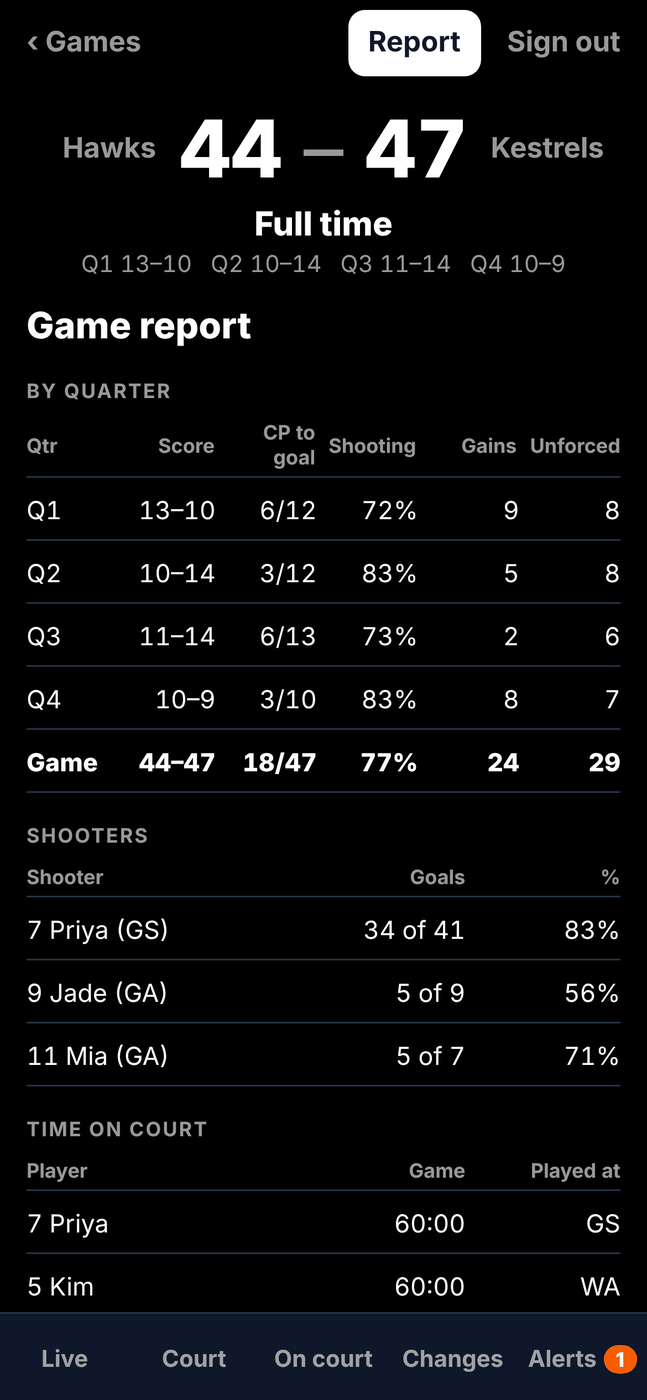
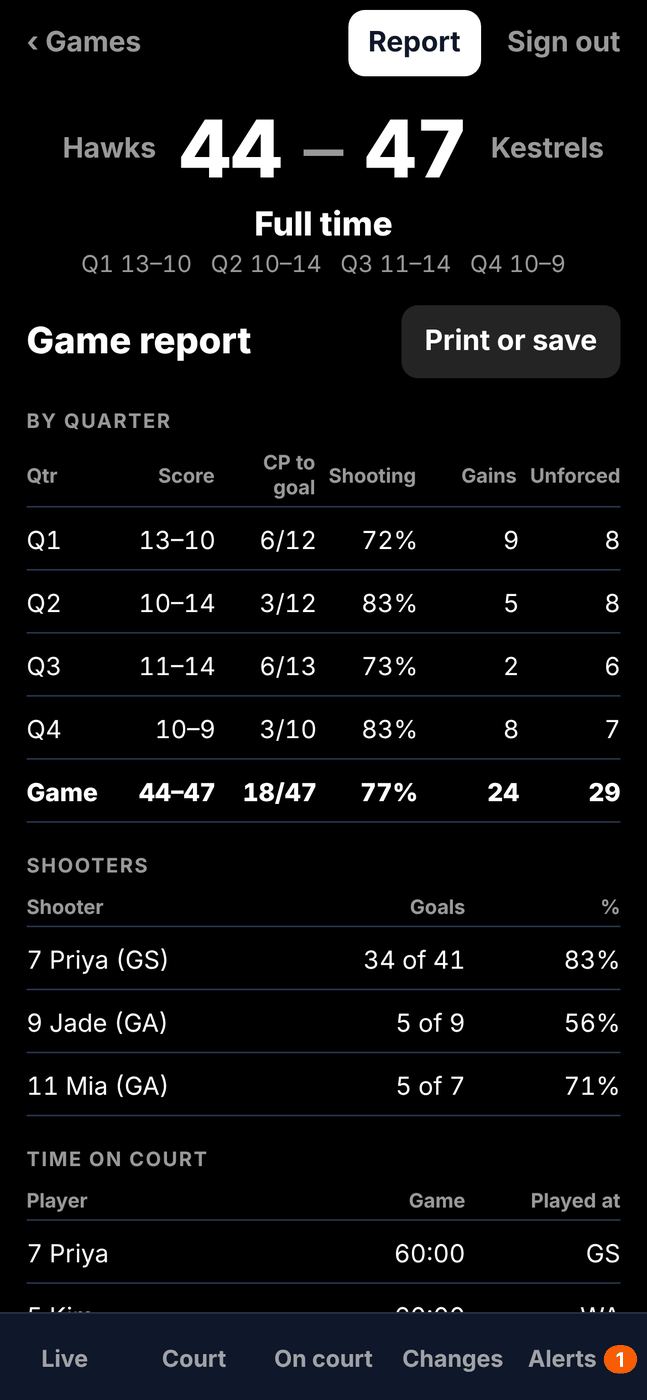
Let coaches print, save or share the Vision game report
Print or save, on the report, opens the browser's print box on a black
on white page of the same tables, where it can be saved as a PDF. In the
phone app the button is Share and sends the report as text. Every copy
says it names players and is for the coaching team only.

Claude-Session: https://claude.ai/code/session_019HSmi9DTeQewiNchkUQqo3

diff --git a/apps/vision/src/stats/reportDoc.ts b/apps/vision/src/stats/reportDoc.ts
@@ -1,0 +1,106 @@
+import type { GameReport } from './report';
+
+/*
+ * The game report as something to keep: plain text for a phone's share sheet,
+ * and a page of its own for a browser to print or save as a PDF. Both are
+ * made from the same tables the screen shows. Nothing here touches the
+ * browser or the phone, so it can be tested.
+ */
+
+export interface ReportHeading {
+  us: string;
+  them: string;
+  score: { us: number; them: number };
+  /** "Full time", "Q3" and so on. */
+  label: string;
+  /** The team the game was recorded for, when known, such as "17 & Under". */
+  teamName: string | null;
+  /** The day the game was played, already written out, such as "Sat 21 Nov 2026". */
+  date: string;
+}
+
+/** Who the report is for. It names players, so it says so on every copy. */
+export const REPORT_NOTE = 'For the coaching team. This report names players: keep it within the team and do not post it publicly.';
+
+export function reportTitle(h: ReportHeading): string {
+  return `${h.us} ${h.score.us} – ${h.score.them} ${h.them}`;
+}
+
+function subtitle(h: ReportHeading): string {
+  return [h.label, h.teamName, h.date].filter(Boolean).join(' · ');
+}
+
+/** The report as plain text, columns lined up with spaces. */
+export function reportText(h: ReportHeading, report: GameReport): string {
+  const out: string[] = [reportTitle(h), subtitle(h), ''];
+  for (const t of report.tables) {
+    out.push(t.title.toUpperCase());
+    if (t.rows.length === 0) {
+      out.push(t.empty, '');
+      continue;
+    }
+    const all = [t.head, ...t.rows];
+    const widths = t.head.map((_, i) => Math.max(...all.map((r) => (r[i] ?? '').length)));
+    for (const r of all) {
+      out.push(
+        r
+          .map((c, i) => (i === 0 ? c.padEnd(widths[i]!) : c.padStart(widths[i]!)))
+          .join('  ')
+          .trimEnd(),
+      );
+    }
+    out.push('');
+  }
+  if (report.unforcedByThird) out.push('UNFORCED TURNOVERS BY THIRD', report.unforcedByThird, '');
+  out.push(REPORT_NOTE, 'FirstPass Vision');
+  return out.join('\n');
+}
+
+/** Makes text safe to put in a page: a player's name is never read as markup. */
+export function escapeHtml(text: string): string {
+  return text.replace(/[&<>"']/g, (c) => ({ '&': '&amp;', '<': '&lt;', '>': '&gt;', '"': '&quot;', "'": '&#39;' })[c]!);
+}
+
+/** The report as a page of its own, black on white, for printing or saving as a PDF. */
+export function reportHtml(h: ReportHeading, report: GameReport): string {
+  const e = escapeHtml;
+  const tables = report.tables
+    .map((t) => {
+      if (t.rows.length === 0) return `<h2>${e(t.title)}</h2><p class="muted">${e(t.empty)}</p>`;
+      const head = t.head.map((c, i) => `<th${i ? ' class="n"' : ''}>${e(c)}</th>`).join('');
+      const rows = t.rows
+        .map((r) => `<tr${t.title === 'By quarter' && r[0] === 'Game' ? ' class="total"' : ''}>${r.map((c, i) => `<td${i ? ' class="n"' : ''}>${e(c)}</td>`).join('')}</tr>`)
+        .join('');
+      return `<h2>${e(t.title)}</h2><table><thead><tr>${head}</tr></thead><tbody>${rows}</tbody></table>`;
+    })
+    .join('');
+  const thirds = report.unforcedByThird ? `<h2>Unforced turnovers by third</h2><p>${e(report.unforcedByThird)}</p>` : '';
+  return `<!doctype html>
+<html lang="en">
+<head>
+<meta charset="utf-8">
+<meta name="viewport" content="width=device-width, initial-scale=1">
+<title>${e(reportTitle(h))}</title>
+<style>
+  @page { margin: 16mm; }
+  body { font: 11pt/1.4 -apple-system, "Segoe UI", Roboto, Helvetica, Arial, sans-serif; color: #0f172a; background: #fff; margin: 0; }
+  h1 { font-size: 20pt; margin: 0; }
+  .sub { color: #475569; margin: 2pt 0 14pt; }
+  h2 { font-size: 9pt; letter-spacing: 0.08em; text-transform: uppercase; color: #475569; margin: 16pt 0 4pt; }
+  table { width: 100%; border-collapse: collapse; page-break-inside: avoid; }
+  th, td { text-align: left; padding: 4pt 6pt 4pt 0; border-bottom: 0.5pt solid #cbd5e1; font-variant-numeric: tabular-nums; }
+  th { font-size: 9pt; color: #475569; }
+  .n { text-align: right; padding-right: 0; padding-left: 6pt; }
+  .total td { font-weight: 700; }
+  .muted { color: #475569; }
+  .note { margin-top: 18pt; font-size: 9pt; color: #475569; }
+</style>
+</head>
+<body>
+<h1>${e(reportTitle(h))}</h1>
+<p class="sub">${e(subtitle(h))}</p>
+${tables}${thirds}
+<p class="note">${e(REPORT_NOTE)}<br>FirstPass Vision</p>
+</body>
+</html>`;
+}

diff --git a/apps/vision/src/stats/__tests__/reportDoc.test.ts b/apps/vision/src/stats/__tests__/reportDoc.test.ts
@@ -1,0 +1,77 @@
+import { describe, expect, it } from 'vitest';
+import type { GameReport } from '../report';
+import { REPORT_NOTE, escapeHtml, reportHtml, reportText, reportTitle, type ReportHeading } from '../reportDoc';
+
+/*
+ * The report to keep: the text and the printable page hold what the screen's
+ * tables hold, both carry the note about naming players, and a name can never
+ * be read as markup.
+ */
+
+const heading: ReportHeading = { us: 'Hawks', them: 'Kestrels', score: { us: 44, them: 47 }, label: 'Full time', teamName: '17 & Under', date: 'Sat 21 Nov 2026' };
+const report: GameReport = {
+  tables: [
+    { title: 'By quarter', head: ['Qtr', 'Score', 'Shooting'], rows: [['Q1', '13–10', '72%'], ['Game', '44–47', '77%']], empty: 'No quarters played yet.' },
+    { title: 'Shooters', head: ['Shooter', 'Goals', '%'], rows: [['7 Priya (GS)', '34 of 41', '83%']], empty: 'No shots recorded.' },
+    { title: 'Rebounds', head: ['', 'Offensive', 'Defensive'], rows: [], empty: 'No rebounds recorded.' },
+  ],
+  unforcedByThird: 'attack 3 · centre 5',
+};
+
+describe('reportTitle', () => {
+  it('is the two teams and the score', () => {
+    expect(reportTitle(heading)).toBe('Hawks 44 – 47 Kestrels');
+  });
+});
+
+describe('reportText', () => {
+  const text = reportText(heading, report);
+
+  it('opens with the score, then the stage, team and date', () => {
+    expect(text.split('\n').slice(0, 2)).toEqual(['Hawks 44 – 47 Kestrels', 'Full time · 17 & Under · Sat 21 Nov 2026']);
+  });
+
+  it('lines the columns up', () => {
+    expect(text).toContain(['Qtr   Score  Shooting', 'Q1    13–10       72%', 'Game  44–47       77%'].join('\n'));
+  });
+
+  it('says so in words where a table is empty, and keeps the thirds line', () => {
+    expect(text).toContain('REBOUNDS\nNo rebounds recorded.');
+    expect(text).toContain('UNFORCED TURNOVERS BY THIRD\nattack 3 · centre 5');
+  });
+
+  it('carries the note about naming players', () => {
+    expect(text).toContain(REPORT_NOTE);
+  });
+
+  it('leaves out the team when it is not known', () => {
+    expect(reportText({ ...heading, teamName: null }, report).split('\n')[1]).toBe('Full time · Sat 21 Nov 2026');
+  });
+});
+
+describe('reportHtml', () => {
+  const html = reportHtml(heading, report);
+
+  it('holds every cell of every table, with the Game row marked', () => {
+    for (const t of report.tables) for (const r of t.rows) for (const c of r) expect(html).toContain(escapeHtml(c));
+    expect(html).toContain('<tr class="total"><td>Game</td>');
+    expect(html).toContain('No rebounds recorded.');
+    expect(html).toContain('attack 3 · centre 5');
+  });
+
+  it('carries the title, the team (escaped) and the note about naming players', () => {
+    expect(html).toContain('<title>Hawks 44 – 47 Kestrels</title>');
+    expect(html).toContain('17 &amp; Under');
+    expect(html).toContain(REPORT_NOTE);
+  });
+
+  it('never lets a name be read as markup, and loads nothing from anywhere', () => {
+    const nasty: GameReport = { tables: [{ title: 'Shooters', head: ['Shooter'], rows: [['<img src=x onerror=alert(1)>']], empty: '' }], unforcedByThird: '' };
+    const page = reportHtml({ ...heading, us: '<script>alert(1)</script>', them: '"Storm"' }, nasty);
+    expect(page).not.toContain('<script');
+    expect(page).not.toContain('<img');
+    expect(page).toContain('&lt;img src=x onerror=alert(1)&gt;');
+    expect(page).toContain('&quot;Storm&quot;');
+    expect(html).not.toMatch(/https?:\/\//);
+  });
+});

diff --git a/apps/vision/src/components/ReportView.tsx b/apps/vision/src/components/ReportView.tsx
@@ -1,12 +1,29 @@
 import { colors } from '@firstpass/ui';
-import { StyleSheet, Text, View } from 'react-native';
+import { Platform, StyleSheet, Text, View } from 'react-native';
+import { REPORT_NOTE } from '../stats/reportDoc';
+import { Btn } from './ui';
 import type { GameReport } from '../stats/report';
 
 /** The game report: the whole game as tables, for after the game. */
-export function ReportView({ report, fullTime }: { report: GameReport; fullTime: boolean }) {
+export function ReportView({
+  report,
+  fullTime,
+  onSave,
+  saveError,
+}: {
+  report: GameReport;
+  fullTime: boolean;
+  /** Opens the browser's print box (print, or save as a PDF) or the phone's share sheet. */
+  onSave: () => void;
+  saveError: string | null;
+}) {
   return (
     <View style={s.wrap}>
-      <Text style={s.title}>{fullTime ? 'Game report' : 'Game report so far'}</Text>
+      <View style={s.titleRow}>
+        <Text style={s.title}>{fullTime ? 'Game report' : 'Game report so far'}</Text>
+        <Btn label={Platform.OS === 'web' ? 'Print or save' : 'Share'} tone="dim" onPress={onSave} style={s.save} />
+      </View>
+      {saveError ? <Text style={s.error}>{saveError}</Text> : null}
       {report.tables.map((t) => (
         <View key={t.title} style={s.table} accessible={t.rows.length === 0} accessibilityLabel={t.rows.length === 0 ? `${t.title}: ${t.empty}` : undefined}>
           <Text style={s.heading}>{t.title}</Text>
@@ -32,6 +49,7 @@ export function ReportView({ report, fullTime }: { report: GameReport; fullTime:
         These are the figures the statistician sees in Vantage. Net Points adds up what each player did for and against the team. Time on court needs
         the lineup and substitutions to have been recorded.
       </Text>
+      <Text style={s.hint}>{REPORT_NOTE}</Text>
     </View>
   );
 }
@@ -51,7 +69,10 @@ function Row({ cells, head, strong, wide }: { cells: string[]; head?: boolean; s
 
 const s = StyleSheet.create({
   wrap: { width: '100%', maxWidth: 820, alignSelf: 'center', gap: 18 },
-  title: { color: colors.text, fontSize: 22, fontWeight: '800' },
+  titleRow: { flexDirection: 'row', alignItems: 'center', gap: 12 },
+  title: { flex: 1, color: colors.text, fontSize: 22, fontWeight: '800' },
+  save: { minHeight: 44, paddingHorizontal: 14 },
+  error: { color: colors.attention, fontSize: 15 },
   table: { gap: 2 },
   heading: { color: colors.textMuted, fontSize: 12, fontWeight: '700', letterSpacing: 1, textTransform: 'uppercase', marginBottom: 4 },
   row: { flexDirection: 'row', alignItems: 'center', gap: 8, paddingVertical: 8, borderBottomWidth: 1, borderBottomColor: colors.surfaceLine },

diff --git a/apps/vision/src/app/game.tsx b/apps/vision/src/app/game.tsx
@@ -21,6 +21,8 @@ import { verdicts } from '../stats/changes';
 import { lossesThisQuarter, matchUps, onCourt } from '../stats/markers';
 import { buildModel } from '../stats/possessions';
 import { gameReport } from '../stats/report';
+import { reportHtml, reportText, reportTitle, type ReportHeading } from '../stats/reportDoc';
+import { saveReport } from '../lib/saveReport';
 import { tiles } from '../stats/tiles';
 import { freshness, scoreSummary, type Freshness, type ScoreSummary } from '../live/summary';
 import { useLiveGame, useNow } from '../live/useLiveGame';
@@ -83,6 +85,22 @@ function SignedInGame({ id }: { id: string }) {
   const [chosenTab, setTab] = useState<Tab | null>(null);
   const tab: Tab = chosenTab ?? (game?.status === 'final' ? 'report' : 'live');
   const report = useMemo(() => (game && tab === 'report' ? gameReport(game.config, events) : null), [game, tab, events]);
+  const [saveError, setSaveError] = useState<string | null>(null);
+  const save = () => {
+    if (!game || !summary || !report) return;
+    const heading: ReportHeading = {
+      us: summary.names.us,
+      them: summary.names.them,
+      score: summary.score,
+      label: summary.label,
+      teamName: game.teamName,
+      date: new Date(game.createdAt).toLocaleDateString(undefined, { weekday: 'short', day: 'numeric', month: 'short', year: 'numeric' }),
+    };
+    setSaveError(null);
+    saveReport({ title: reportTitle(heading), text: reportText(heading, report), html: reportHtml(heading, report) }).catch((e: unknown) =>
+      setSaveError(e instanceof Error ? e.message : "Couldn't open the report to save."),
+    );
+  };
   // The break view opens by itself at each break; closing it keeps it closed for that break.
   const [closedBreak, setClosedBreak] = useState<string | null>(null);
 
@@ -138,7 +156,7 @@ function SignedInGame({ id }: { id: string }) {
         {events.length === 0 ? (
           <Text style={[ui.muted, styles.centerText]}>Waiting for the first stats from the statistician's tablet.</Text>
         ) : tab === 'report' && report ? (
-          <ReportView report={report} fullTime={summary.phase === 'full time'} />
+          <ReportView report={report} fullTime={summary.phase === 'full time'} onSave={save} saveError={saveError} />
         ) : tab === 'court' ? (
           <CourtTab model={glance.model} names={summary.names} />
         ) : tab === 'oncourt' ? (

diff --git a/apps/vision/src/lib/saveReport.ts b/apps/vision/src/lib/saveReport.ts
@@ -1,0 +1,38 @@
+import { Platform, Share } from 'react-native';
+
+/**
+ * Hands the game report to the person to keep.
+ *
+ * In a browser: the report page (black on white) goes in a frame nobody sees
+ * and the browser's print box opens on it, where "Save as PDF" is one of the
+ * choices. The frame may run no scripts and is removed afterwards. In the
+ * phone app: the phone's share sheet, with the report as plain text.
+ */
+export async function saveReport(doc: { title: string; text: string; html: string }): Promise<void> {
+  if (Platform.OS !== 'web') {
+    await Share.share({ title: doc.title, message: doc.text });
+    return;
+  }
+  const frame = document.createElement('iframe');
+  frame.setAttribute('sandbox', 'allow-same-origin allow-modals');
+  frame.setAttribute('aria-hidden', 'true');
+  frame.style.cssText = 'position:fixed;right:0;bottom:0;width:0;height:0;border:0;visibility:hidden';
+  frame.srcdoc = doc.html;
+  await new Promise<void>((resolve, reject) => {
+    frame.onload = () => resolve();
+    frame.onerror = () => reject(new Error("Couldn't prepare the report to print."));
+    document.body.appendChild(frame);
+  });
+  const view = frame.contentWindow;
+  if (!view) {
+    frame.remove();
+    throw new Error("This browser wouldn't open the report to print.");
+  }
+  // The frame's own title is what a saved PDF is named after.
+  const remove = () => setTimeout(() => frame.remove(), 1000);
+  view.addEventListener('afterprint', remove);
+  view.focus();
+  view.print();
+  // Some browsers never say printing ended; don't leave the frame behind for ever.
+  setTimeout(() => frame.remove(), 10 * 60_000);
+}

diff --git a/apps/vision/README.md b/apps/vision/README.md
@@ -11,8 +11,12 @@ on one page: each quarter, the shooters, time on court, rebounds and Net
 Points, from the same engine functions as Vantage's "Game so far"
 (`src/stats/report.ts`). A finished game opens on its report. The games list
 shows the last three days; **Earlier games** brings older ones, twenty at a
-time. The report stays on the screen: there is no export or share button,
-because stats stay with coaches, managers, statisticians and admins.
+time. **Print or save** on the report opens the browser's print box, where
+it can be printed or saved as a PDF, black on white; in the phone app the
+button is **Share** and sends the report as text (`src/stats/reportDoc.ts`,
+`src/lib/saveReport.ts`). Every copy carries a line saying it names players
+and is for the coaching team only (Matt asked for the button, 22 November
+2026).
 
 How it gets the game:
 
